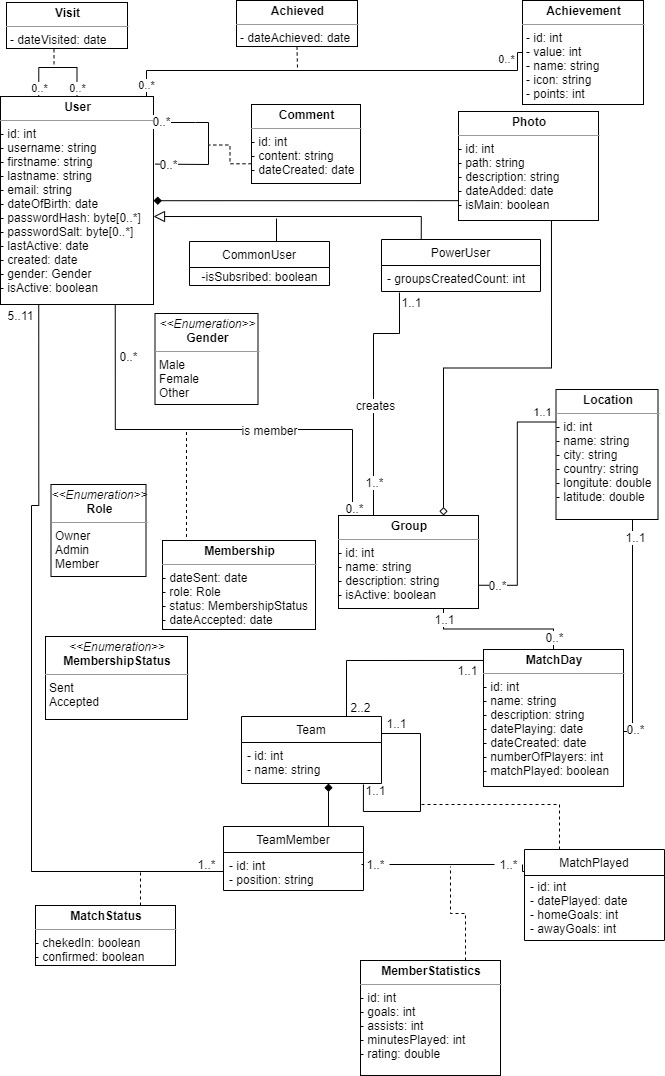
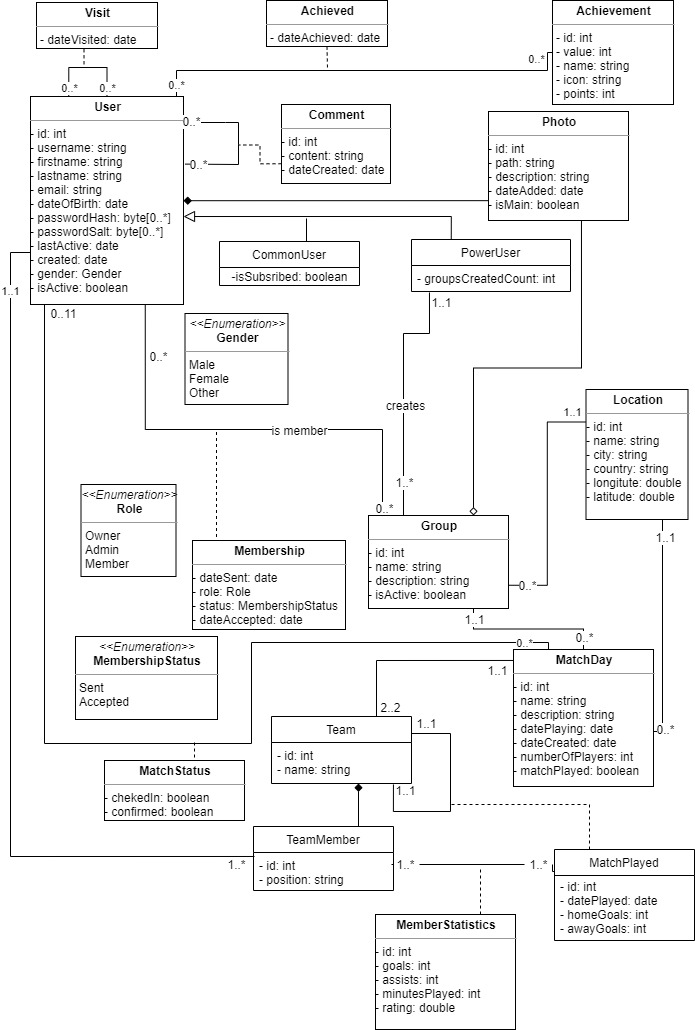
- Upcoming match component adjusted - Match played component added - Group user box updated - Database model updated

diff --git a/FootballApp-SPA/src/app/content-page/played-match/played-match.component.ts b/FootballApp-SPA/src/app/content-page/played-match/played-match.component.ts
@@ -6,6 +6,111 @@ import { Component, OnInit } from '@angular/core';
   styleUrls: ['./played-match.component.css']
 })
 export class PlayedMatchComponent implements OnInit {
+  homePlayers: any = [
+    {
+      firstname: 'Milos',
+      lastname: 'Nikic',
+      username: 'kicni',
+      dateCreated: '1.1.2020.',
+      mainPhoto: '../../../../assets/male-default.jpg',
+      email: 'milos.nikic@gmail.com',
+      lastActive: '20.5.2020.',
+      dateOfBirth: '31.12.1996.',
+    },
+    {
+      firstname: 'jovan',
+      lastname: 'jovanovic',
+      username: 'joca',
+      dateCreated: '1.1.2020.',
+      mainPhoto: '../../../../assets/male-default.jpg',
+      email: 'jovan.jovanovic@gmail.com',
+      lastActive: '20.5.2020.',
+      dateOfBirth: '31.12.1996.',
+    },
+    {
+      firstname: 'Ivan',
+      lastname: 'Ivanovic',
+      username: 'ica',
+      dateCreated: '1.1.2020.',
+      mainPhoto: '../../../../assets/male-default.jpg',
+      email: 'ivan.ivanovic@gmail.com',
+      lastActive: '20.5.2020.',
+      dateOfBirth: '31.12.1996.',
+    },
+    {
+      firstname: 'Ivan',
+      lastname: 'Ivanovic',
+      username: 'ica',
+      dateCreated: '1.1.2020.',
+      mainPhoto: '../../../../assets/male-default.jpg',
+      email: 'ivan.ivanovic@gmail.com',
+      lastActive: '20.5.2020.',
+      dateOfBirth: '31.12.1996.',
+    },
+    {
+      firstname: 'Ivan',
+      lastname: 'Ivanovic',
+      username: 'ica',
+      dateCreated: '1.1.2020.',
+      mainPhoto: '../../../../assets/male-default.jpg',
+      email: 'ivan.ivanovic@gmail.com',
+      lastActive: '20.5.2020.',
+      dateOfBirth: '31.12.1996.',
+    }
+  ];
+  awayPlayers: any = [
+    {
+      firstname: 'Milos',
+      lastname: 'Nikic',
+      username: 'kicni',
+      dateCreated: '1.1.2020.',
+      mainPhoto: '../../../../assets/male-default.jpg',
+      email: 'milos.nikic@gmail.com',
+      lastActive: '20.5.2020.',
+      dateOfBirth: '31.12.1996.',
+    },
+    {
+      firstname: 'jovan',
+      lastname: 'jovanovic',
+      username: 'joca',
+      dateCreated: '1.1.2020.',
+      mainPhoto: '../../../../assets/male-default.jpg',
+      email: 'jovan.jovanovic@gmail.com',
+      lastActive: '20.5.2020.',
+      dateOfBirth: '31.12.1996.',
+    },
+    {
+      firstname: 'Ivan',
+      lastname: 'Ivanovic',
+      username: 'ica',
+      dateCreated: '1.1.2020.',
+      mainPhoto: '../../../../assets/male-default.jpg',
+      email: 'ivan.ivanovic@gmail.com',
+      lastActive: '20.5.2020.',
+      dateOfBirth: '31.12.1996.',
+    },
+    {
+      firstname: 'Ivan',
+      lastname: 'Ivanovic',
+      username: 'ica',
+      dateCreated: '1.1.2020.',
+      mainPhoto: '../../../../assets/male-default.jpg',
+      email: 'ivan.ivanovic@gmail.com',
+      lastActive: '20.5.2020.',
+      dateOfBirth: '31.12.1996.',
+    },
+    {
+      firstname: 'Ivan',
+      lastname: 'Ivanovic',
+      username: 'ica',
+      dateCreated: '1.1.2020.',
+      mainPhoto: '../../../../assets/male-default.jpg',
+      email: 'ivan.ivanovic@gmail.com',
+      lastActive: '20.5.2020.',
+      dateOfBirth: '31.12.1996.',
+    }
+  ];
+
 
   constructor() { }
 

diff --git a/FootballApp-SPA/src/app/content-page/upcoming-match/upcoming-match.component.ts b/FootballApp-SPA/src/app/content-page/upcoming-match/upcoming-match.component.ts
@@ -1,4 +1,5 @@
 import { Component, OnInit } from '@angular/core';
+import { MatchStatus } from 'src/app/_models/matchStatus.enum';
 
 @Component({
   selector: 'app-upcoming-match',
@@ -19,6 +20,7 @@ export class UpcomingMatchComponent implements OnInit {
       email: 'milos.nikic@gmail.com',
       lastActive: '20.5.2020.',
       dateOfBirth: '31.12.1996.',
+      matchStatus: MatchStatus.Checked
     },
     {
       firstname: 'jovan',
@@ -29,6 +31,7 @@ export class UpcomingMatchComponent implements OnInit {
       email: 'jovan.jovanovic@gmail.com',
       lastActive: '20.5.2020.',
       dateOfBirth: '31.12.1996.',
+      matchStatus: MatchStatus.Checked
     },
     {
       firstname: 'Ivan',
@@ -39,6 +42,7 @@ export class UpcomingMatchComponent implements OnInit {
       email: 'ivan.ivanovic@gmail.com',
       lastActive: '20.5.2020.',
       dateOfBirth: '31.12.1996.',
+      matchStatus: MatchStatus.Checked
     },
     {
       firstname: 'Ivan',
@@ -49,6 +53,7 @@ export class UpcomingMatchComponent implements OnInit {
       email: 'ivan.ivanovic@gmail.com',
       lastActive: '20.5.2020.',
       dateOfBirth: '31.12.1996.',
+      matchStatus: MatchStatus.Confirmed
     },
   ];
 
@@ -68,6 +73,7 @@ export class UpcomingMatchComponent implements OnInit {
       email: 'ivan.ivanovic@gmail.com',
       lastActive: '20.5.2020.',
       dateOfBirth: '31.12.1996.',
+      matchStatus: MatchStatus.Checked
     };
     this.users.unshift(user);
   }

diff --git a/FootballApp-SPA/src/app/content-page/group-detail/group-user-box/group-user-box.component.html b/FootballApp-SPA/src/app/content-page/group-detail/group-user-box/group-user-box.component.html
@@ -1,4 +1,10 @@
-<mat-card class="user-box">
+<mat-card
+  class="user-box"
+  [ngClass]="{
+    confirmed: matchStatus === MatchStatus.Confirmed,
+    checked: matchStatus === MatchStatus.Checked
+  }"
+>
   <div>
     <img
       src="{{ user?.mainPhoto }}"
@@ -7,12 +13,21 @@
     />
     <h3 class="name">{{ user?.firstname }} {{ user?.lastname }}</h3>
     <span class="text-muted username">({{ user?.username }})</span>
-    <button *ngIf="pendingRequest" class="btn btn-outline-danger ml-4 mt-4 float-right">
+    <!-- TODO: Add recent form display -->
+    <button
+      *ngIf="pendingRequest"
+      class="btn btn-outline-danger ml-4 mt-4 float-right"
+    >
       Reject user
     </button>
-    <button *ngIf="pendingRequest" class="btn btn-success ml-4 mt-4 float-right">
+    <button
+      *ngIf="pendingRequest"
+      class="btn btn-success ml-4 mt-4 float-right"
+    >
       Accept user
     </button>
+    <div *ngIf="matchStatus === MatchStatus.Checked" style="color: yellow;margin-left: 80px;"><i class="fas fa-question-circle"></i> Checked</div>
+    <div *ngIf="matchStatus === MatchStatus.Confirmed" style="color: greenyellow;margin-left: 80px;"><i class="fas fa-check-circle"></i> Confirmed</div>
     <small class="date-joined">Joined {{ user?.dateCreated }}</small>
   </div>
 </mat-card>

diff --git a/FootballApp-SPA/src/app/content-page/played-match/played-match.component.html b/FootballApp-SPA/src/app/content-page/played-match/played-match.component.html
@@ -1,3 +1,34 @@
-<p>
-  played-match works!
-</p>
+<h1>Match played</h1>
+<hr />
+<div class="container-fluid">
+  <div class="row mt-4">
+    <div class="col-md-3">
+      <h3>Location played</h3>
+      <p class="text">Jelovac, Serbia - Belgrade</p>
+    </div>
+    <div class="col-md-3">
+      <h3>Home</h3>
+      <p class="text">⚽ Milos Nikic</p>
+      <p class="text">⚽ Ivan Ivanovic</p>
+    </div>
+    <div class="col-md-3">
+      <h3>Result</h3>
+      <p style="font-size: larger;">2:1</p>
+    </div>
+    <div class="col-md-3">
+      <h3>Away</h3>
+      <p class="text">⚽ Jovan Jovanovic</p>
+    </div>
+  </div>
+  <hr>
+  <div class="row">
+    <div class="col-md-6">
+      <h2 class="text-center">Home team</h2>
+      <app-group-user-box *ngFor="let user of homePlayers" [user]="user"></app-group-user-box>
+    </div>
+    <div class="col-md-6">
+      <h2 class="text-center">Away team</h2>
+      <app-group-user-box *ngFor="let user of awayPlayers" [user]="user"></app-group-user-box>
+    </div>
+  </div>
+</div>

diff --git a/FootballApp-SPA/src/app/content-page/group-detail/group-user-box/group-user-box.component.css b/FootballApp-SPA/src/app/content-page/group-detail/group-user-box/group-user-box.component.css
@@ -1,30 +1,37 @@
 .user-box {
-    margin-bottom: 10px;
-    border: 1px solid rgb(209, 209, 209);
-    padding: 10px;
-  }
-  
-  .user-box:hover {
-    opacity: 70%;
-  }
-  
-  .user-img {
-    cursor: pointer;
-    width: 64px;
-  }
-  
-  .name {
-    cursor: pointer;
-    display: inline-block;
-    margin-left: 20px;
+  margin-bottom: 10px;
+  border: 1px solid rgb(209, 209, 209);
+  padding: 10px;
+}
 
-  }
-  .username {
-    margin-left: 15px;
-    display: inline-block;
-  }
-  
-  .date-joined {
-    display: block;
-    text-align: left;
-  }
+.user-box:hover {
+  opacity: 70%;
+}
+
+.user-img {
+  cursor: pointer;
+  width: 64px;
+}
+
+.name {
+  cursor: pointer;
+  display: inline-block;
+  margin-left: 20px;
+}
+.username {
+  margin-left: 15px;
+  display: inline-block;
+}
+
+.date-joined {
+  display: block;
+  text-align: left;
+}
+
+mat-card.checked {
+  border: 1px solid yellow;
+}
+
+mat-card.confirmed {
+  border: 1px solid greenyellow;
+}

diff --git a/FootballApp-SPA/src/app/content-page/group-detail/group-pending-accept/group-pending-accept.component.html b/FootballApp-SPA/src/app/content-page/group-detail/group-pending-accept/group-pending-accept.component.html
@@ -1,8 +1,14 @@
 <div class="container-fluid">
-  <div class="mt-2"><h3 style="display: block;">Manage user membership</h3></div>
+  <div class="mt-2">
+    <h3 style="display: inline;">Manage user membership</h3>
+    <h4 style="display: inline;" class="float-right">Pending accepts: 5</h4>
+  </div>
   <div class="row mt-4">
     <div *ngFor="let user of users" class="col-md-12">
-      <app-group-user-box [user]="user" [pendingRequest]="true"></app-group-user-box>
+      <app-group-user-box
+        [user]="user"
+        [pendingRequest]="true"
+      ></app-group-user-box>
     </div>
   </div>
 </div>

diff --git a/FootballApp-SPA/src/app/content-page/upcoming-match/upcoming-match.component.html b/FootballApp-SPA/src/app/content-page/upcoming-match/upcoming-match.component.html
@@ -28,7 +28,7 @@
     <!-- Here should be displayed number of users and buttons -->
     <div class="col-md-4"></div>
     <div class="col-md-4 text-center">
-      <h3 [ngClass]="getCapacityClass()">{{ users?.length }}/12</h3>
+      <h3 [ngClass]="getCapacityClass()">Users confirmed: {{ users?.length }}/12</h3>
     </div>
     <div class="col-md-4">
       <button
@@ -59,6 +59,7 @@
       <app-group-user-box
         *ngFor="let user of users"
         [user]="user"
+        [matchStatus]="user?.matchStatus"
       ></app-group-user-box>
     </div>
   </div>

diff --git a/FootballApp-SPA/src/app/content-page/group-detail/group-user-box/group-user-box.component.ts b/FootballApp-SPA/src/app/content-page/group-detail/group-user-box/group-user-box.component.ts
@@ -1,5 +1,6 @@
 import { Component, OnInit, Input } from '@angular/core';
 import { User } from 'src/app/_models/user';
+import { MatchStatus } from 'src/app/_models/matchStatus.enum';
 
 @Component({
   selector: 'app-group-user-box',
@@ -10,6 +11,8 @@ export class GroupUserBoxComponent implements OnInit {
   @Input() user: any;
   @Input() deleteVisible: boolean = false;
   @Input() pendingRequest: boolean = false;
+  @Input() matchStatus: MatchStatus;
+  MatchStatus = MatchStatus;
 
   constructor() { }
 

diff --git a/FootballApp-SPA/src/app/_models/matchStatus.enum.ts b/FootballApp-SPA/src/app/_models/matchStatus.enum.ts
@@ -1,0 +1,4 @@
+export enum MatchStatus {
+    Checked,
+    Confirmed
+}

diff --git a/FootballApp-SPA/src/app/content-page/played-match/played-match.component.css b/FootballApp-SPA/src/app/content-page/played-match/played-match.component.css
@@ -1,0 +1,4 @@
+.text {
+    font-size: large;
+    margin-bottom: 0;
+}
